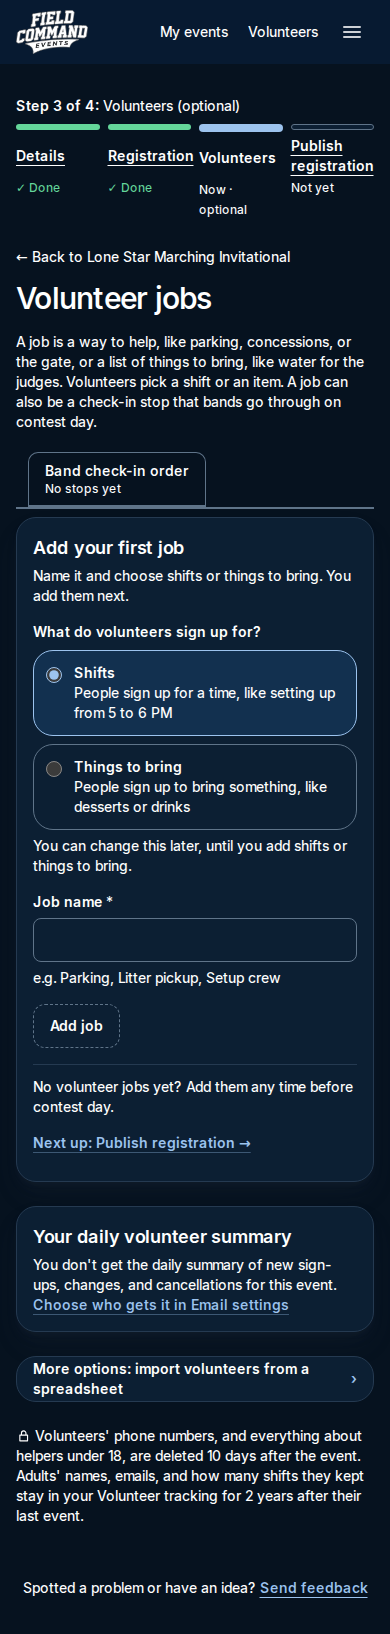
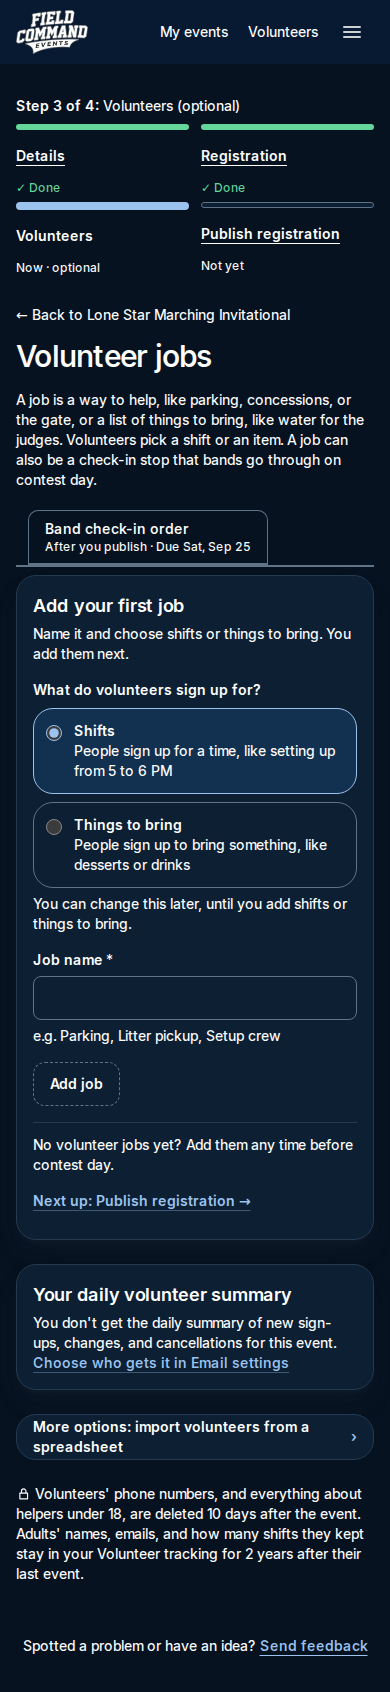
Setup order light-check fixes: one Next step (Publish registration) everywhere, Optional said in words, unfinished jobs move after publishing, due-date tags, after-publish wording on the draft page, two-row step bar on phones
Claude-Session: https://claude.ai/code/session_012QSAnYf9D3RQG6GMrYDPnP

diff --git a/src/lib/setup-checklist.ts b/src/lib/setup-checklist.ts
@@ -17,6 +17,8 @@ export type SetupStep = {
   required: boolean;
   /** Started but not finished (something's saved): how far along, and what's there so far. */
   partial?: { fraction: number; note: string };
+  /** Has a due date: shown as its tag ("Due Sep 25") instead of "Optional". */
+  due?: string;
 };
 
 export type SetupFacts = {
@@ -215,7 +217,7 @@ export function setupChecklist(f: SetupFacts): SetupChecklist {
       volunteerEvent
         ? jobsStep(f, base)
         : f.eventType === "band_contest"
-          ? // A band contest's jobs work the same way, but publishing doesn't need them.
+          ? // A band contest's jobs work the same way, but publishing doesn't need them. (Once live, unfinished jobs move after publishing.)
             { ...jobsStep(f, base), hint: "Only if you need volunteers.", required: false }
           : {
         id: "shifts",
@@ -288,9 +290,8 @@ export function setupChecklist(f: SetupFacts): SetupChecklist {
     after.push({
       id: "check-in",
       label: "Set your band check-in order",
-      hint: f.startsOn
-        ? `The stops bands go through, like parking, check-in, and the gate. Due ${formatDate(twoWeeksBefore(f.startsOn), { year: undefined })}, so volunteers can be placed.`
-        : "The stops bands go through, like parking, check-in, and the gate.",
+      hint: "The stops bands go through, like parking, check-in, and the gate, so volunteers can be placed.",
+      due: f.startsOn ? `Due ${formatDate(twoWeeksBefore(f.startsOn), { year: undefined })}` : undefined,
       // The stops are set in each job; their order has its own tab.
       href: `${base}/volunteering?station=order`,
       done: f.checkInStops > 0,
@@ -313,9 +314,10 @@ export function setupChecklist(f: SetupFacts): SetupChecklist {
         id: "schedule",
         label: hasRooms(f.eventType) ? "Build and post the room schedule" : "Build and publish the performance schedule",
         hint:
-          f.eventType === "band_contest" && f.startsOn
-            ? `Directors are emailed their times when you publish it. Due ${formatDate(twoWeeksBefore(f.startsOn), { year: undefined })}, so they can book buses.`
+          f.eventType === "band_contest"
+            ? "Directors are emailed their times when you publish it, so they can book buses."
             : "Directors are emailed their times when you publish the schedule.",
+        due: f.eventType === "band_contest" && f.startsOn ? `Due ${formatDate(twoWeeksBefore(f.startsOn), { year: undefined })}` : undefined,
         href: hasRooms(f.eventType) ? `${base}/rooms#order-heading` : `${base}/schedule`,
         done: f.scheduleShared,
         required: false,
@@ -334,6 +336,18 @@ export function setupChecklist(f: SetupFacts): SetupChecklist {
     });
   }
 
+  // A live band contest: volunteer jobs still being finished belong with the after-publishing steps,
+  // just before opening sign-up; finished ones simply drop out of "before".
+  if (f.eventType === "band_contest" && f.published) {
+    const jobs = before.findIndex((s) => s.id === "shifts");
+    if (jobs >= 0) {
+      const [step] = before.splice(jobs, 1);
+      if (!step.done && f.stations > 0) {
+        const at = after.findIndex((s) => s.id === "signup");
+        after.splice(at < 0 ? 0 : at, 0, { ...step, label: "Finish volunteer jobs" });
+      }
+    }
+  }
   before.sort((a, b) => BEFORE_ORDER.indexOf(a.id) - BEFORE_ORDER.indexOf(b.id));
   // Only open steps can be part-way; a finished one just shows done.
   for (const st of [...before, ...after]) if (st.done) delete st.partial;
@@ -343,7 +357,8 @@ export function setupChecklist(f: SetupFacts): SetupChecklist {
   const afterDone = after.filter((s) => s.done).length;
   const next = !f.published ? (remaining[0] ?? publish) : (after.find((s) => !s.done) ?? null);
   const counted = f.published ? after : needed;
-  const inProgress = (f.published ? after : [...before, ...after]).find((s) => !s.done && s.partial) ?? null;
+  // Before publishing, only a step publishing needs can be "in progress" ahead of Publish: an optional one never jumps the queue.
+  const inProgress = (f.published ? after : before.filter((s) => s.required)).find((s) => !s.done && s.partial) ?? null;
   return {
     eventId: f.eventId,
     inProgress,

diff --git a/src/app/dashboard/events/[eventId]/page.tsx b/src/app/dashboard/events/[eventId]/page.tsx
@@ -798,10 +798,12 @@ export default async function EventPage({ params, searchParams }: PageProps<"/da
                 ? "Your rooms, the path every group follows, and each group's times."
                 : "The running order, breaks, and finals. Directors are emailed their times when you publish the schedule."}
             </span>
-            {event.event_type === "band_contest" && published && !event.performance_order_published && !past && (
-              // When to post times by, and why: directors book buses from them.
+            {event.event_type === "band_contest" && !event.performance_order_published && !past && (
+              // When to post times by, and why: directors book buses from them. Before publishing, it's later work.
               <span className="basis-full text-sm">
-                <span className="font-semibold">Publish by {formatDate(twoWeeksBefore(event.starts_on), { year: undefined })}</span>
+                <span className="font-semibold">
+                  {published ? "Publish by" : "After you publish registration, by"} {formatDate(twoWeeksBefore(event.starts_on), { year: undefined })}
+                </span>
                 <span className="text-muted">, two weeks before contest day, so directors can book buses</span>
               </span>
             )}
@@ -969,7 +971,8 @@ export default async function EventPage({ params, searchParams }: PageProps<"/da
           ["publish", "attention", "signups", "schedule", "volunteers", ...((setup?.readyJobs ?? 1) > 0 ? ["day"] : []), "files"]
         : event.event_type === "band_contest"
           ? // A band contest too: the publish card leads, naming what registration still needs, or with the button.
-            ["publish", "attention", "signups", "schedule", "volunteers", "day", "files"]
+            // Then the setup order: registration, volunteers (optional), and the schedule, which comes after publishing.
+            ["publish", "attention", "signups", "volunteers", "schedule", "day", "files"]
           : ["next", "attention", "signups", "schedule", "volunteers", "publish", "day", "files"];
   const labels: Record<string, string> = {
     day: dayTitle,

diff --git a/src/components/volunteer-steps.tsx b/src/components/volunteer-steps.tsx
@@ -35,7 +35,7 @@ export function SetupSteps({ eventId, kind, facts }: { eventId: string; kind: St
           . {doneCount} of {steps.length} done.
         </span>
       </p>
-      <ol className={`mt-2 grid gap-2 ${steps.length === 4 ? "grid-cols-4" : "grid-cols-3"}`}>
+      <ol className={`mt-2 grid gap-x-3 gap-y-1 ${steps.length === 4 ? "grid-cols-2 sm:grid-cols-4" : "grid-cols-3"}`}>
         {steps.map((s, i) => {
           const now = i === here;
           // A required middle step that still needs something: amber, saying what. An optional one stays neutral.
@@ -53,14 +53,14 @@ export function SetupSteps({ eventId, kind, facts }: { eventId: string; kind: St
                     ? done[i] && i < last
                       ? "Now · ready"
                       : optionalNote
-                        ? `Now · ${optionalNote.toLowerCase() === "optional" ? "optional" : optionalNote}`
+                        ? `Now · ${optionalNote.charAt(0).toLowerCase()}${optionalNote.slice(1)}`
                         : "Now"
                     : (optionalNote ?? "Not yet");
           return (
             <li key={s.key} className="min-w-0">
               <span
                 aria-hidden
-                className={`block rounded-full ${now ? "h-2 bg-brand" : done[i] ? "h-1.5 bg-success" : needs ? "h-1.5 bg-warning" : s.optional ? "h-1.5 border border-dashed border-field-border bg-surface" : "h-1.5 border border-field-border bg-surface"}`}
+                className={`block rounded-full ${now ? "h-2 bg-brand" : done[i] ? "h-1.5 bg-success" : needs ? "h-1.5 bg-warning" : s.optional ? "h-1.5 border-[1.5px] border-dashed border-muted bg-surface" : "h-1.5 border border-field-border bg-surface"}`}
               />
               {now ? (
                 <span aria-current="step" className="mt-1 flex min-h-11 items-center text-sm font-semibold">

diff --git a/src/app/dashboard/events/[eventId]/volunteering/page.tsx b/src/app/dashboard/events/[eventId]/volunteering/page.tsx
@@ -22,6 +22,7 @@ import { StationTabs, UnsavedChangesProvider } from "./station-steps";
 import { FAIR_ZONES, hasBands, hasBooths, hasRooms, leadWords, usesJobs } from "@/lib/event-types";
 import { kindLabel, sortStations } from "@/lib/contest-day";
 import { CheckInOrderList } from "./check-in-order";
+import { twoWeeksBefore } from "@/lib/setup-checklist";
 import { JobSignups, StationPanel, type ItemSignup, type RosterEntry, type Shift, type Station, type StationItem } from "../station-panel";
 import { SavedBy } from "@/components/saved-by";
 import { volunteerTotals } from "@/lib/volunteer-totals";
@@ -443,7 +444,12 @@ export default async function VolunteeringPage({ params, searchParams }: PagePro
                     {
                       key: "order",
                       label: jobsHere ? "Band check-in order" : "Check-in order",
-                      status: checkpoints.length ? `${checkpoints.length} ${checkpoints.length === 1 ? "stop" : "stops"}` : "No stops yet",
+                      // Before publishing, the order is later work: say when it's due instead.
+                      status: checkpoints.length
+                        ? `${checkpoints.length} ${checkpoints.length === 1 ? "stop" : "stops"}`
+                        : !published && jobsHere
+                          ? `After you publish · Due ${formatDate(twoWeeksBefore(event.starts_on), { year: undefined })}`
+                          : "No stops yet",
                       href: tabHref("order"),
                       active: other === "order",
                     },

diff --git a/src/components/setup-guide.tsx b/src/components/setup-guide.tsx
@@ -436,7 +436,7 @@ function Step({ step: st, next, justDone, onNavigate }: { step: SetupStep } & St
               )}
               {!st.required && !st.done && (
                 <span className="rounded-full bg-background px-2 py-0.5 text-[11px] font-semibold text-muted ring-1 ring-border">
-                  Optional
+                  {st.due ?? "Optional"}
                 </span>
               )}
             </span>

diff --git a/src/app/dashboard/events/[eventId]/layout.tsx b/src/app/dashboard/events/[eventId]/layout.tsx
@@ -51,6 +51,6 @@ function bandSteps(f: SetupFacts): SetupStepFacts {
     count: null,
     // Optional: done once there's a job volunteers can see, and every job has something to sign up for.
     volunteersDone: (f.readyJobs ?? 0) > 0 && empty.length === 0,
-    volunteersNote: empty.length ? emptyJobsNote(empty) : "Optional",
+    volunteersNote: empty.length ? `Optional · ${emptyJobsNote(empty)}` : "Optional",
   };
 }

diff --git a/docs/design-decisions/2026-10-30-band-contest-mockups.md b/docs/design-decisions/2026-10-30-band-contest-mockups.md
@@ -80,3 +80,23 @@ More options, Check-in order tab).
 | — | Order rows hide deadlines; heading size; intro wording | 1 | Take the advice | "Due 60 minutes before warm-up" under each stop; job heading style; clearer intro |
 | — | Empty-job bar not shown | 1 | Take the advice | Screenshot 6 added |
 | — | Event page amber box for an optional step; stops line on the event page | 1 | Keep as is | The amber box names a job volunteers can't see yet; event page layout is out of scope |
+
+## Setup order (owner, 2026-11-04)
+
+Owner: a band contest sets up as 1) Event details, 2) Band registration, 3) Volunteers (optional),
+4) Publish registration. Team and maps stay optional before publishing (Event settings). Check-in
+order and the performance schedule come after publishing, each due two weeks before contest day.
+
+Light check (UX Designer, usability consultant) on docs/design-reviews/2026-11-04-band-pr4-order/:
+
+| # | Finding | Severity | Decision | Notes |
+|---|---|---|---|---|
+| 1 | Checklist and phone bar said "Next: Add volunteer jobs" while the step bar said Publish | 3 | Take the advice | Before publishing, only a step publishing needs can be "in progress" ahead of Publish; all three now say Publish registration |
+| — | "Optional" disappeared when a job needed something | 2 | Take the advice | "Optional · Check-in table needs a shift"; darker dashed bar |
+| — | Unfinished volunteer work stayed under "Before you publish" once live | 2 | Take the advice | Moves to "After you publish" as "Finish volunteer jobs", before Open volunteer sign-up |
+| — | "Optional" next to a due date | 2 | Take the advice | Check-in order and the schedule show "Due Sep 25" as their tag |
+| — | Draft page invites after-publish work | 2 | Take the advice | Volunteers card before Schedule; schedule card says "After you publish registration, by …"; check-in order tab says "After you publish · Due …" |
+| — | Step bar cramped on phones | 2 | Take the advice | Two rows of two on phones |
+| — | Sticky bar covers content; sidebar clipped with no cue | 2 | Later | Shared by every event type; separate fix |
+| — | "Publish registration" narrower than what publishing does | 1 | Keep as is | Owner's name; the step's hint says the contest page goes online |
+| — | Skip-to-publish link on the Registration step | 1 | Keep as is | The step bar links to Publish registration |
